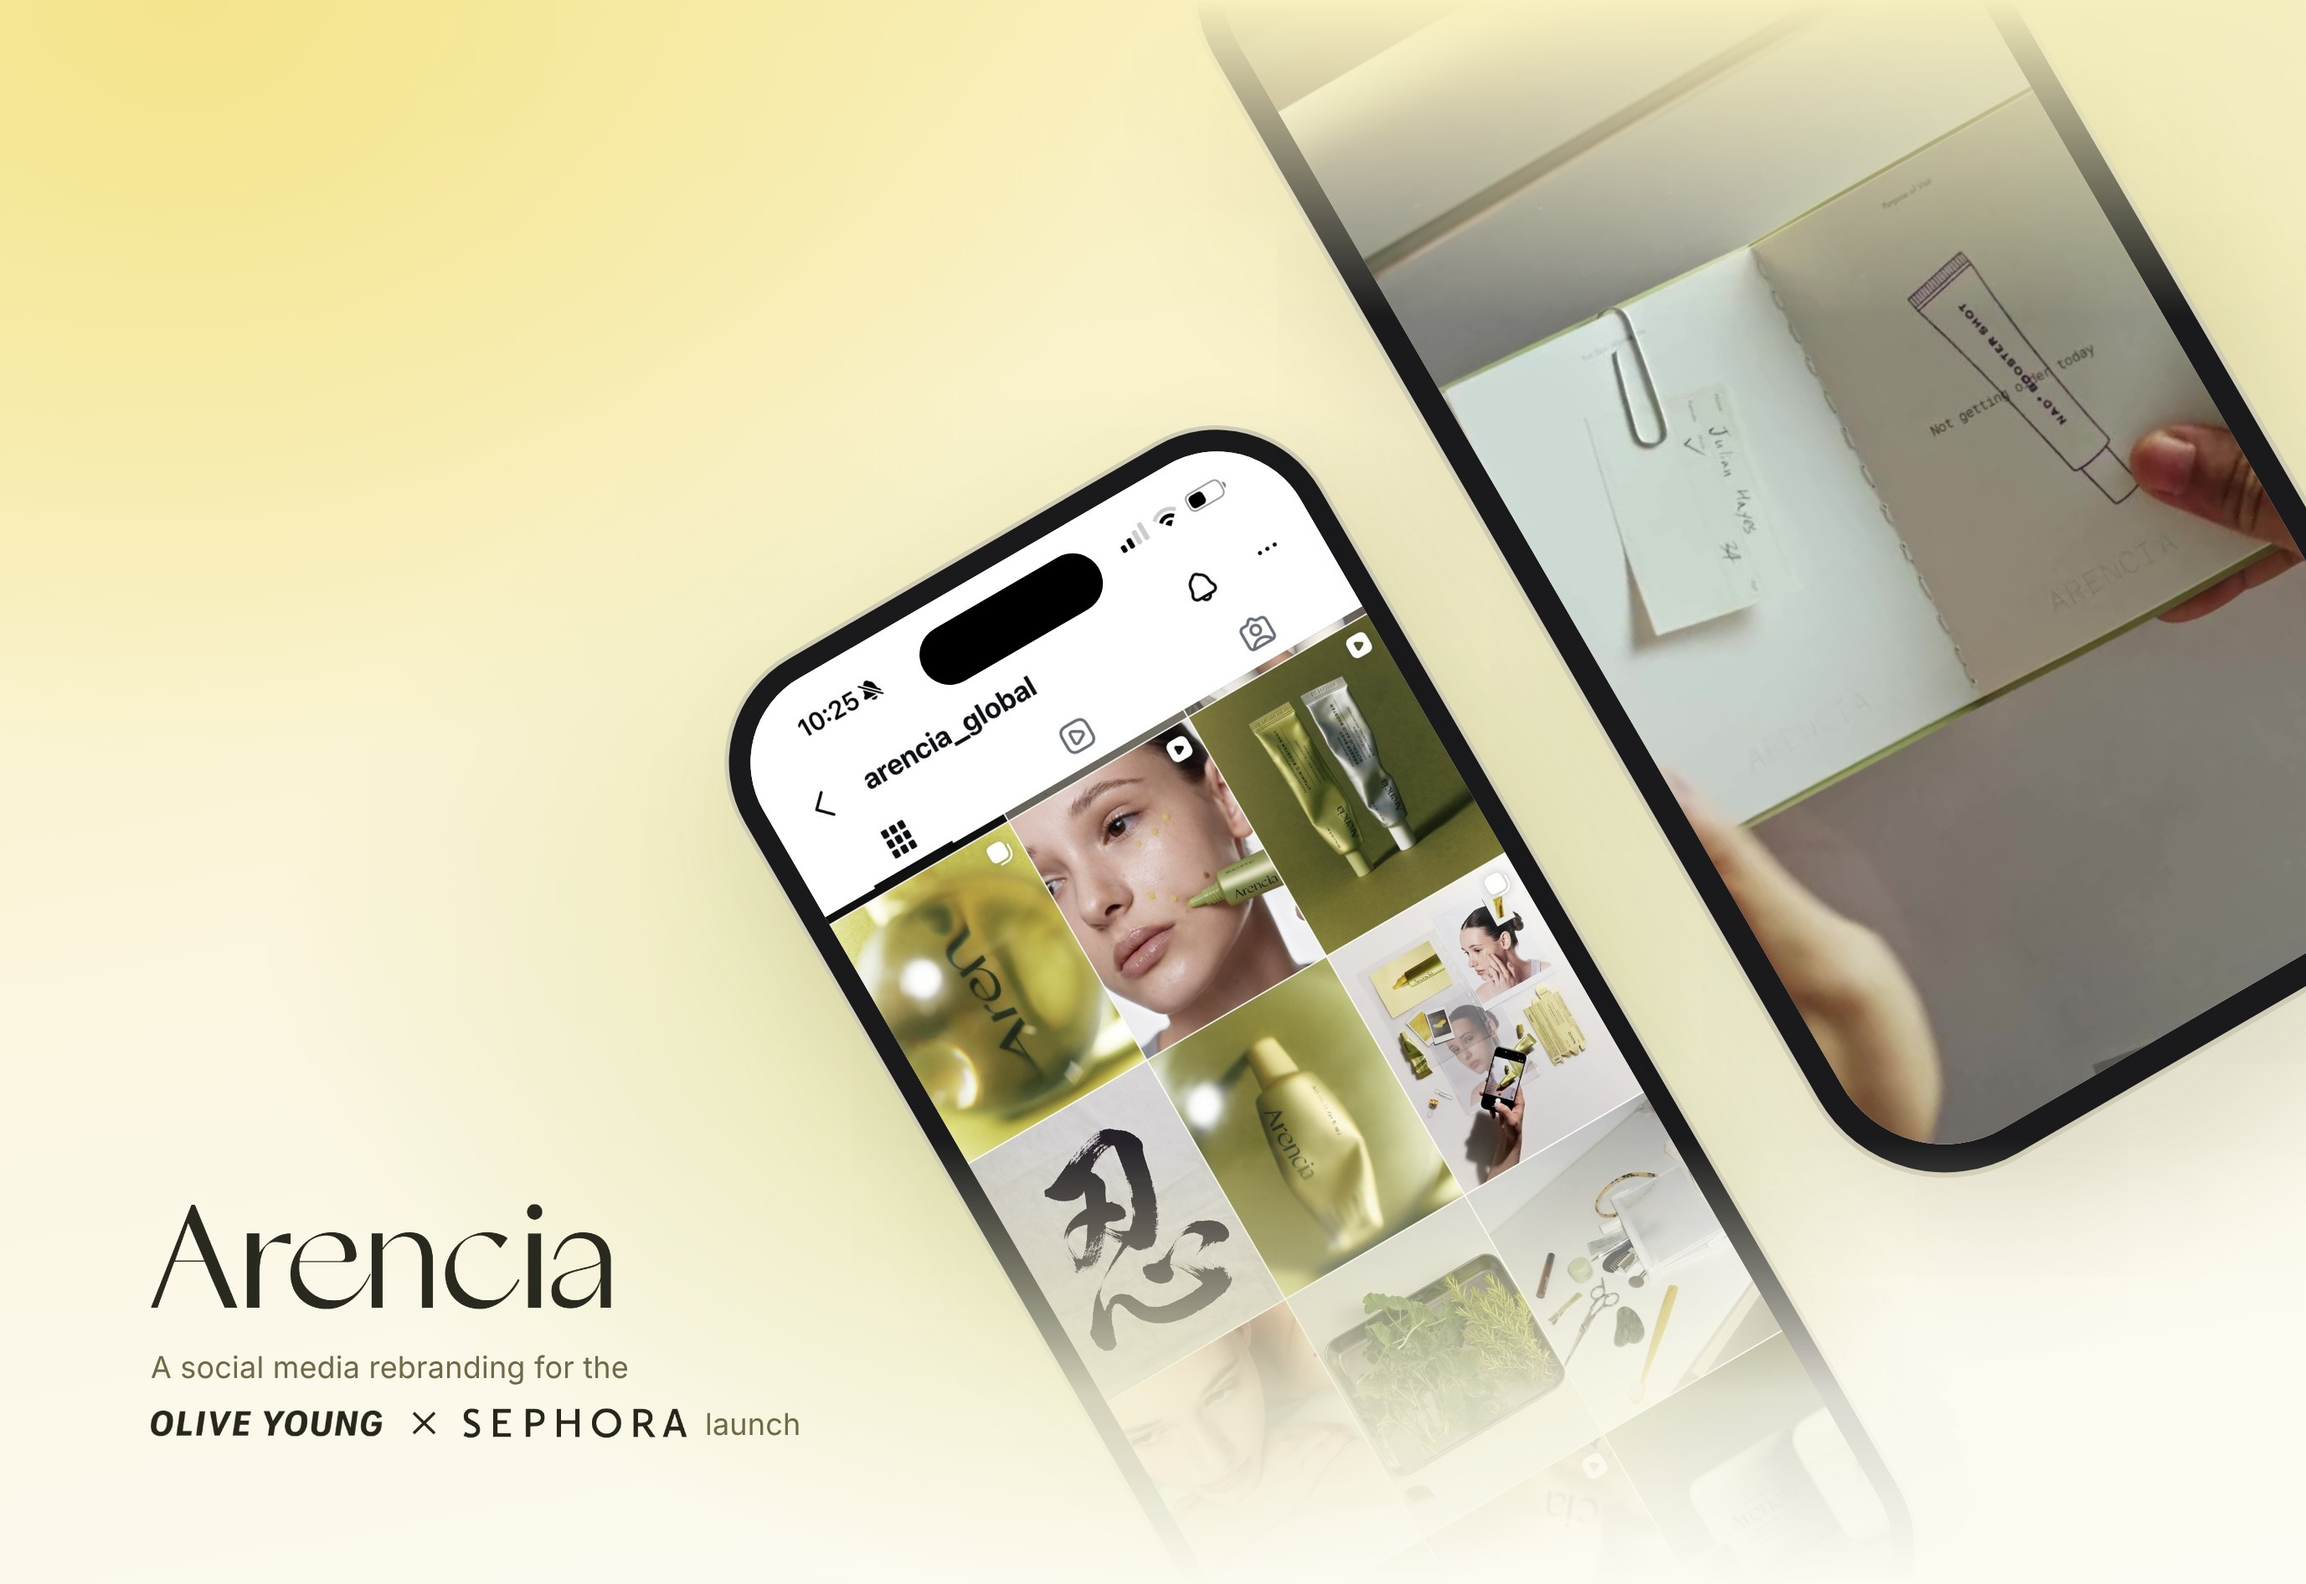
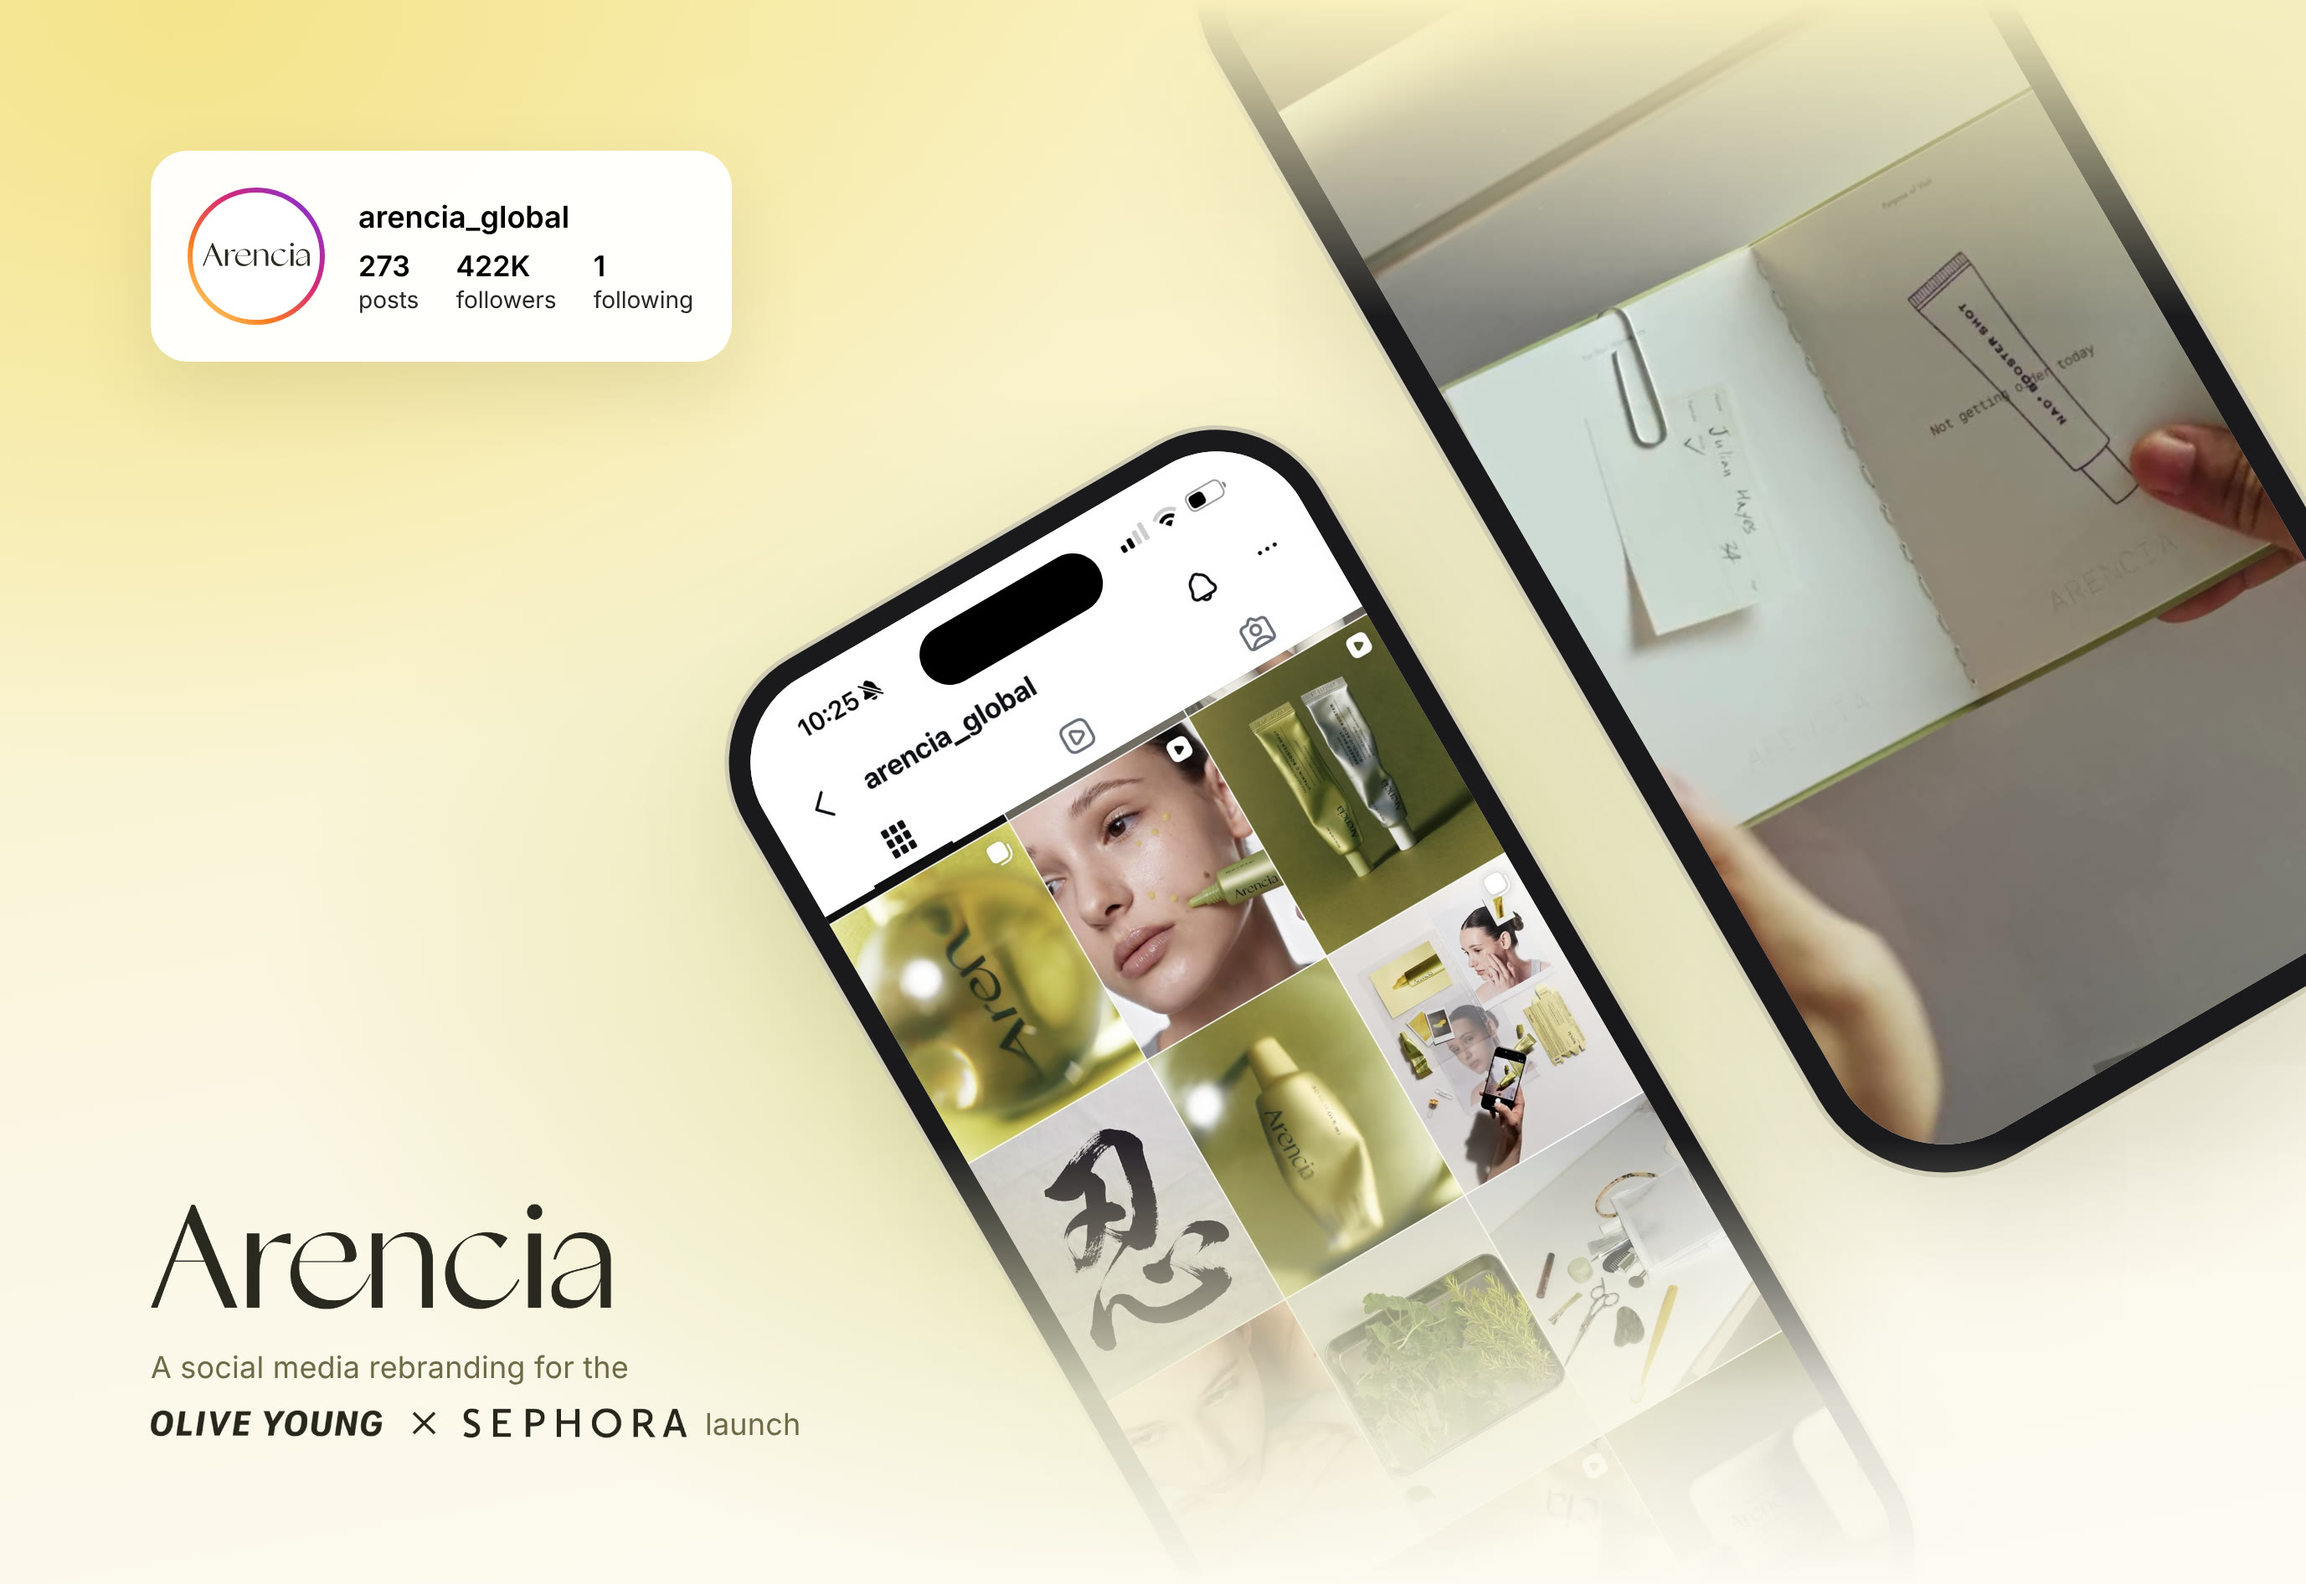
Arencia cover: Instagram profile card in the top-left corner
Claude-Session: https://claude.ai/code/session_01PJkMotC6Nz8qWguHKxjy1y

Changed region(s): [[0.0625, 0.0936, 0.3435, 0.2495]]

diff --git a/index.html b/index.html
@@ -62,7 +62,7 @@
 
       <a class="project" href="arencia-site/index.html">
         <div class="project__media project__media--arencia">
-          <img src="arencia-site/images/cover.jpg?v=16" width="1377" height="946"
+          <img src="arencia-site/images/cover.jpg?v=17" width="1377" height="946"
             alt="Arencia cover: two tilted phones showing the rebranded Instagram grid and the Booster Shot video, and the Arencia logo with 'A social media rebranding for the Olive Young x Sephora launch'">
           <video class="project__hover" data-src="arencia-site/images/hover.mp4?v=4" muted playsinline loop preload="none" aria-hidden="true"></video>
         </div>

diff --git a/arencia-site/index.html b/arencia-site/index.html
@@ -46,7 +46,7 @@
       </div>
     </section>
 
-    <img class="hero" src="images/cover.jpg?v=16" width="1377" height="946"
+    <img class="hero" src="images/cover.jpg?v=17" width="1377" height="946"
       alt="Arencia cover: two tilted phones showing the rebranded Instagram grid and the Booster Shot video, and the Arencia logo with 'A social media rebranding for the Olive Young x Sephora launch'">
 
     <div class="layout">
